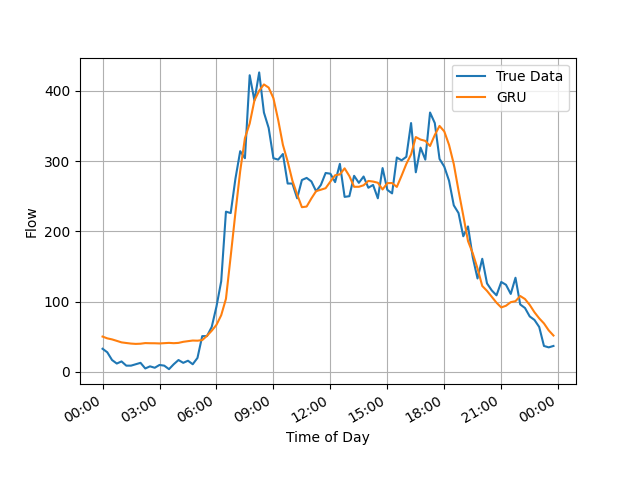
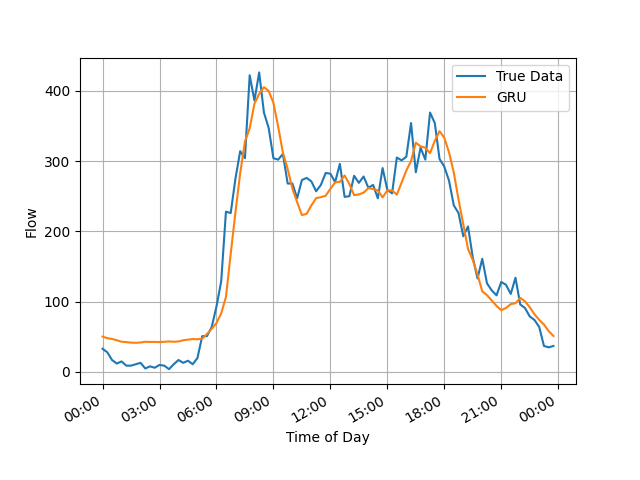
Add lags to training config

diff --git a/main.py b/main.py
@@ -61,7 +61,11 @@ data_loader = DataLoader(
 data_loader.save_df(data_loader.preprocess_df(data_loader.get_df()), "./current.csv")
 
 training_config = TrainingConfig(
-    epochs=25, batch_size=256, train_test_proportion=0.7, validation_split=0.05
+    epochs=25,
+    batch_size=256,
+    lags=12,
+    train_test_proportion=0.7,
+    validation_split=0.05,
 )
 
 basic_model, hist_df, main_input_data = ModelTrainer.train(
@@ -83,15 +87,14 @@ y_preds = basic_model.keras.predict(main_input_data.x_test)
 
 y_preds = main_input_data.scaler.inverse_transform(y_preds)
 
-# limit to 96
+# limit to 96 (number of 15 minute periods in a day)
 
-lags = 12
+lags = training_config.lags
 
 y_true = y_true[96 - lags : 96 * 2 - lags]
 y_preds = y_preds[96 - lags : 96 * 2 - lags]
 
 # inverse transform
-
 
 # plot
 DataVisualiser.plot_results(

diff --git a/model_trainer.py b/model_trainer.py
@@ -26,15 +26,11 @@ class ModelTrainer:
                 "Target column not found in data frame. Make sure the target column is in the data frame after preprocessing."
             )
 
-        # TODO figure out where lags comes from
-        # we can just set lags to 12 for now
-        lags = 12
-
         model_input_data = data_loader.create_train_test_split_from_df(
             processed_df,
             training_config.train_test_proportion,
             data_loader.target,
-            lags,
+            training_config.lags,
         )
 
         # configure the model

diff --git a/training_config.py b/training_config.py
@@ -5,6 +5,7 @@ class TrainingConfig:
         self,
         epochs: int,
         batch_size: int,
+        lags: int,
         train_test_proportion: float = 0.7,
         validation_split: float = 0.05,
     ):
@@ -12,3 +13,4 @@ class TrainingConfig:
         self.batch_size = batch_size
         self.validation_split = validation_split
         self.train_test_proportion = train_test_proportion
+        self.lags = lags
